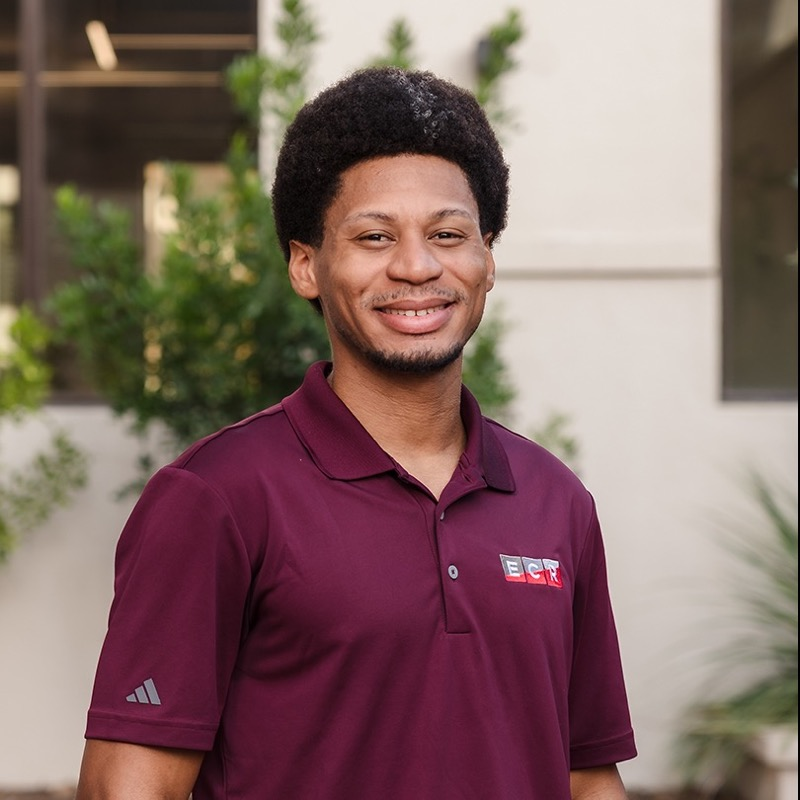
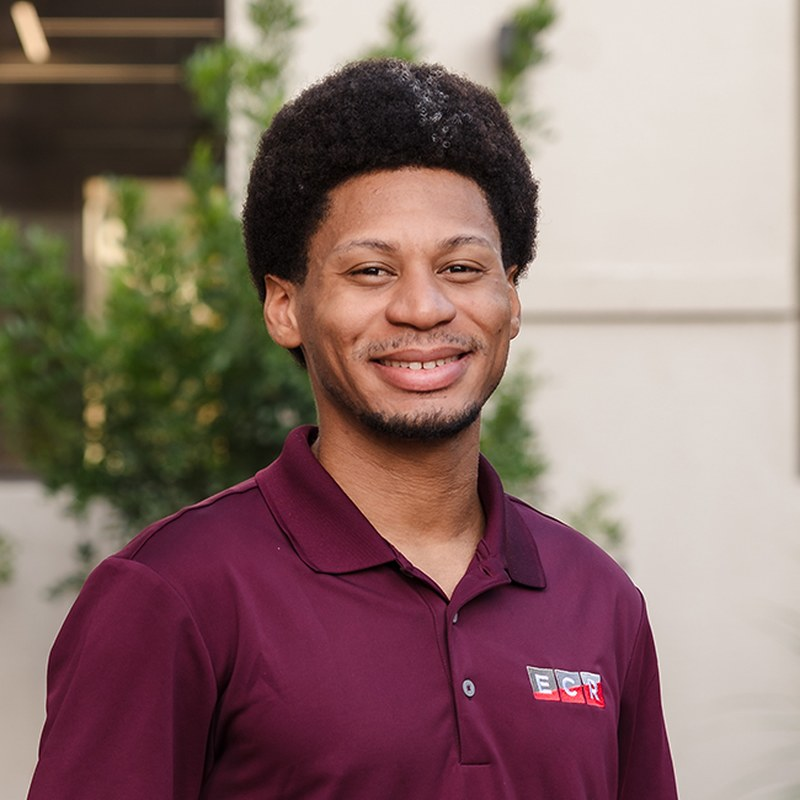
Update contacts, reframe Bradley Augustin photo, order brokers by title
- Gage Berne: add mobile and LinkedIn
- Brandon Meadows: add mobile
- Leah Leggett: add LinkedIn
- Bradley Augustin: tighter head-and-shoulders crop to match other headshots
- Brokerage: order Jason Steinberg's reports Partner > Brokerage Principal >
  Senior Brokerage Advisor > Brokerage Advisor

diff --git a/src/data.ts b/src/data.ts
@@ -67,24 +67,18 @@ export const PEOPLE: Person[] = [
   { id: 'sean-couey', name: 'Sean Couey', cred: '', title: 'Brokerage Principal', dept: 'brokerage', parent: 'jason-steinberg',
     email: 'scouey@ecrtx.com', phone: '512-505-0027', mobile: '512-557-4754', linkedin: LI('sean-couey'),
     photo: '/Sean_Couey_-_Square.jpg', bio: BIO('sean-couey') },
-  { id: 'stephen-pannes', name: 'Stephen Pannes', cred: '', title: 'Senior Brokerage Advisor', dept: 'brokerage', parent: 'jason-steinberg',
-    email: 'spannes@ecrtx.com', phone: '512-505-0018', mobile: '512-992-9491', linkedin: LI('stephen-pannes-71870541'),
-    photo: '/Stephen_Pannes_-_Square.jpg', bio: BIO('stephen-pannes') },
   { id: 'matt-fain', name: 'Matt Fain', cred: '', title: 'Brokerage Principal', dept: 'brokerage', parent: 'jason-steinberg',
     email: 'mfain@ecrtx.com', phone: '512-505-0011', mobile: '512-587-9302', linkedin: '',
     photo: '/Matt_Fain_-_Square.jpg', bio: BIO('matt-fain') },
   { id: 'ryan-wilson', name: 'Ryan Wilson', cred: '', title: 'Brokerage Principal', dept: 'brokerage', parent: 'jason-steinberg',
     email: 'rwilson@ecrtx.com', phone: '512-505-0006', mobile: '512-466-2904', linkedin: '',
     photo: '/Ryan_Wilson_-_Square.jpg', bio: BIO('ryan-wilson') },
-  { id: 'hannah-huskey', name: 'Hannah Huskey', cred: '', title: 'Brokerage Advisor', dept: 'brokerage', parent: 'jason-steinberg',
-    email: 'hhuskey@ecrtx.com', phone: '512-505-0015', mobile: '512-635-7760', linkedin: LI('hannah-huskey'),
-    photo: '/Hannah_Huskey_-_Square.jpg', bio: BIO('hannah-huskey') },
-  { id: 'ross-chumley', name: 'Ross Chumley', cred: '', title: 'Brokerage Advisor', dept: 'brokerage', parent: 'jason-steinberg',
-    email: 'rchumley@ecrtx.com', phone: '512-505-0029', mobile: '512-739-7222', linkedin: LI('rosschumley'),
-    photo: '/Ross_Chumley_-_Square.jpg', bio: BIO('ross-chumley') },
   { id: 'haley-smith', name: 'Haley Smith', cred: 'SIOR', title: 'Brokerage Principal', dept: 'brokerage', parent: 'jason-steinberg',
     email: 'hsmith@ecrtx.com', phone: '512-505-0014', mobile: '512-970-1143', linkedin: LI('haley-berry-smith-sior-280bb65'),
     photo: '/Haley_Smith_-_Square.jpg', bio: BIO('haley-smith') },
+  { id: 'stephen-pannes', name: 'Stephen Pannes', cred: '', title: 'Senior Brokerage Advisor', dept: 'brokerage', parent: 'jason-steinberg',
+    email: 'spannes@ecrtx.com', phone: '512-505-0018', mobile: '512-992-9491', linkedin: LI('stephen-pannes-71870541'),
+    photo: '/Stephen_Pannes_-_Square.jpg', bio: BIO('stephen-pannes') },
   { id: 'david-dawkins', name: 'David Dawkins', cred: '', title: 'Senior Brokerage Advisor', dept: 'brokerage', parent: 'jason-steinberg',
     email: 'ddawkins@ecrtx.com', phone: '512-505-0022', mobile: '512-751-1611', linkedin: LI('daviddawkins'),
     photo: '/David_Dawkins_-_Square.jpg', bio: BIO('david-dawkins') },
@@ -94,6 +88,12 @@ export const PEOPLE: Person[] = [
   { id: 'nick-owens', name: 'Nick Owens', cred: '', title: 'Senior Brokerage Advisor', dept: 'brokerage', parent: 'jason-steinberg',
     email: 'nowens@ecrtx.com', phone: '512-505-0005', mobile: '512-202-8880', linkedin: LI('nickowensli'),
     photo: '/Nick_Owens_-_Square.jpg', bio: BIO('nick-owens') },
+  { id: 'hannah-huskey', name: 'Hannah Huskey', cred: '', title: 'Brokerage Advisor', dept: 'brokerage', parent: 'jason-steinberg',
+    email: 'hhuskey@ecrtx.com', phone: '512-505-0015', mobile: '512-635-7760', linkedin: LI('hannah-huskey'),
+    photo: '/Hannah_Huskey_-_Square.jpg', bio: BIO('hannah-huskey') },
+  { id: 'ross-chumley', name: 'Ross Chumley', cred: '', title: 'Brokerage Advisor', dept: 'brokerage', parent: 'jason-steinberg',
+    email: 'rchumley@ecrtx.com', phone: '512-505-0029', mobile: '512-739-7222', linkedin: LI('rosschumley'),
+    photo: '/Ross_Chumley_-_Square.jpg', bio: BIO('ross-chumley') },
   { id: 'cory-camp', name: 'Cory Camp', cred: '', title: 'Brokerage Advisor', dept: 'brokerage', parent: 'jason-steinberg',
     email: 'ccamp@ecrtx.com', phone: '512-505-2761', mobile: '301-233-1124', linkedin: LI('cory-camp-893946135'),
     photo: '/Cory_Camp_-_Square.jpg', bio: BIO('cory-camp') },
@@ -109,7 +109,7 @@ export const PEOPLE: Person[] = [
     email: 'estaples@ecrtx.com', phone: '512-505-0944', mobile: '512-970-6562', linkedin: LI('emily-staples-'),
     photo: '/Emily_Staples_-_Square.jpg', bio: BIO('emily-staples') },
   { id: 'leah-leggett', name: 'Leah Leggett', cred: '', title: 'Reception & Office Coordinator', dept: 'operations', parent: 'jennifer-schwartz',
-    email: 'lleggett@ecrtx.com', phone: '512-505-0945', mobile: '', linkedin: '',
+    email: 'lleggett@ecrtx.com', phone: '512-505-0945', mobile: '', linkedin: LI('leah-leggett-bb9228375'),
     photo: '/Leah_Leggett_-_Square.jpg', bio: BIO('leah-leggett') },
   { id: 'jeannette-estrada', name: 'Jeannette Estrada', cred: '', title: 'Assistant Property Manager', dept: 'management', parent: 'danielle-ortiz',
     email: 'jestrada@ecrtx.com', phone: '512-505-2765', mobile: '737-318-3932', linkedin: LI('jeannette-estrada-3364b520'),
@@ -122,7 +122,7 @@ export const PEOPLE: Person[] = [
     photo: '/Brian_Velazquez_-_Square.jpg', bio: BIO('brian-velazquez') },
 
   { id: 'gage-berne', name: 'Gage Berne', cred: '', title: 'Research Analyst', dept: 'operations', parent: 'jennifer-schwartz',
-    email: 'gberne@ecrtx.com', phone: '512-505-2755', mobile: '', linkedin: '',
+    email: 'gberne@ecrtx.com', phone: '512-505-2755', mobile: '210-416-6691', linkedin: LI('gage-berne'),
     photo: '/Gage_Berne_-_Square.jpg', bio: BIO('gage-berne') },
 
   // --- Marketing (under Sean Bednarz) ---
@@ -170,7 +170,7 @@ export const PEOPLE: Person[] = [
     email: 'jvazquez@ecrtx.com', phone: '', mobile: '512-767-3468', linkedin: '',
     photo: '/Jose_Vazquez_-_Square.jpg', bio: BIO('jose-vazquez') },
   { id: 'brandon-meadows', name: 'Brandon Meadows', cred: '', title: 'Building Engineer', dept: 'management', parent: 'mike-bartz',
-    email: 'bmeadows@ecrtx.com', phone: '512-505-0943', mobile: '', linkedin: '',
+    email: 'bmeadows@ecrtx.com', phone: '512-505-0943', mobile: '850-380-6299', linkedin: '',
     photo: '/Brandon_Meadows_-_Square.jpg', bio: BIO('brandon-meadows') },
   { id: 'jamie-tamayo', name: 'Jamie Tamayo', cred: '', title: 'Lead Engineer', dept: 'management', parent: 'mike-bartz',
     email: 'jtamayo@ecrtx.com', phone: '512-505-2763', mobile: '512-994-5032', linkedin: LI('jamie-tamayo-447149271'),
